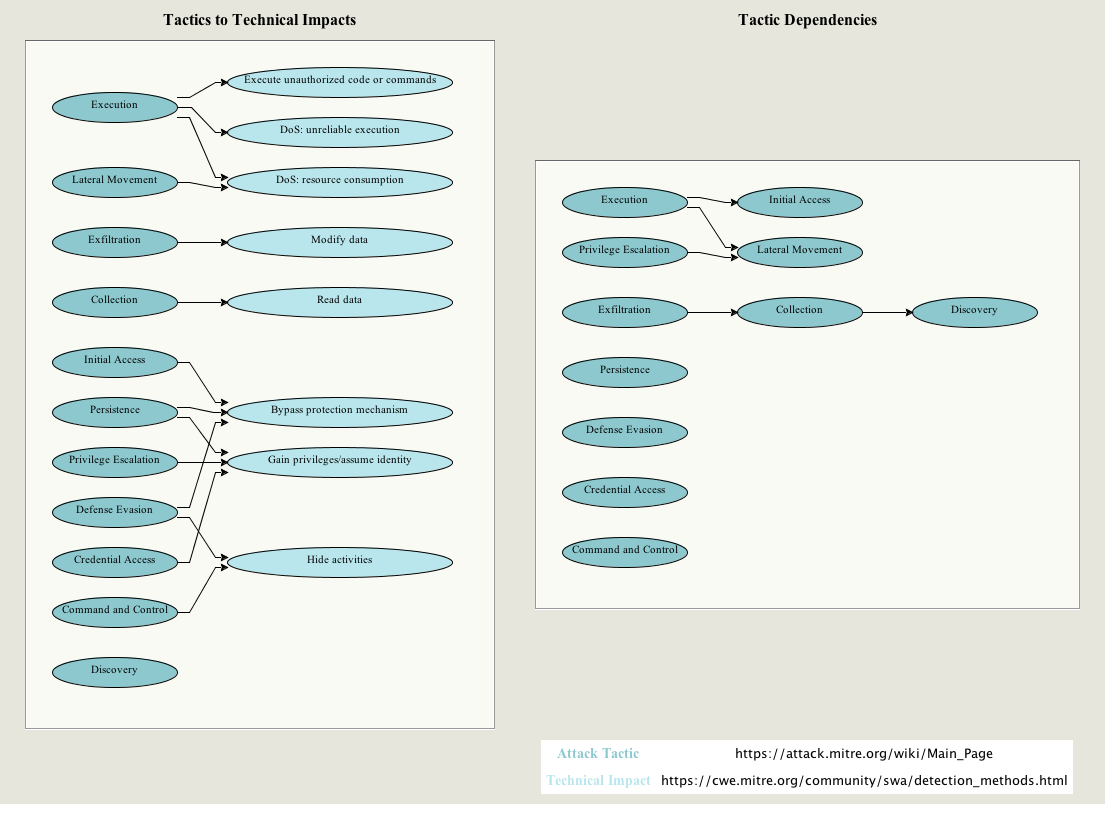
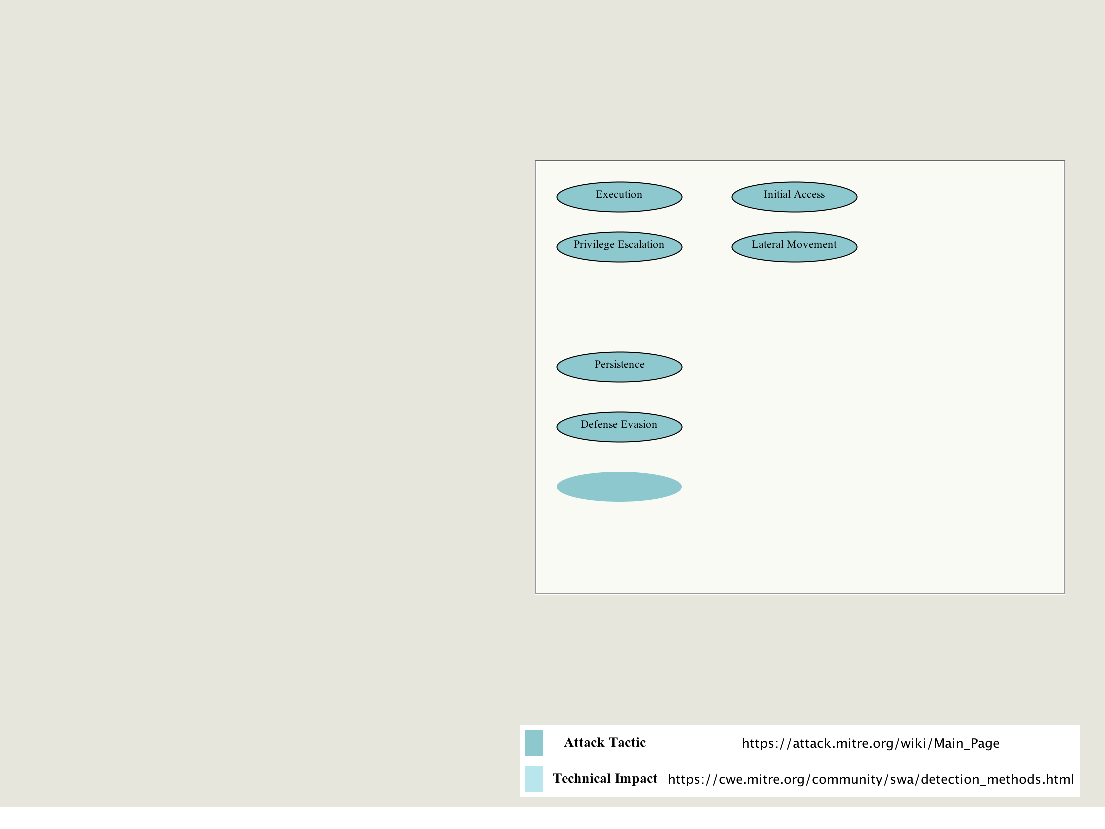
Making color code look prettier

diff --git a/src/main/java/GraphVisualizer.java b/src/main/java/GraphVisualizer.java
@@ -90,15 +90,24 @@ class GraphVisualizer extends JApplet {
         cc.gridx = 0;
         cc.gridy = 0;
         cc.insets = new Insets(5, 5, 5, 5);
+        JPanel atPanel = new JPanel();
+        atPanel.setBackground(darkpowder);
+        atPanel.add(new JLabel("\t\t"));
+        colorCode.add(atPanel, cc);
+        cc.gridy++;
+        JPanel tiPanel = new JPanel();
+        tiPanel.setBackground(powderblue);
+        tiPanel.add(new JLabel("\t\t"));
+        colorCode.add(tiPanel, cc);
+        cc.gridx++;
+        cc.gridy--;
         JLabel atLabel = new JLabel("Attack Tactic");
         Font atFont = new Font("Times New Roman", Font.BOLD, 14);
         atLabel.setFont(atFont);
-        atLabel.setForeground(darkpowder);
         colorCode.add(atLabel, cc);
         cc.gridy++;
         JLabel tiLabel = new JLabel("Technical Impact");
         tiLabel.setFont(new Font("Times New Roman", Font.BOLD, 14));
-        tiLabel.setForeground(powderblue);
         colorCode.add(tiLabel, cc);
         cc.gridx++;
         colorCode.add(new JLabel("https://cwe.mitre.org/community/swa/detection_methods.html"), cc);
@@ -184,9 +193,9 @@ class GraphVisualizer extends JApplet {
         });
 
         //Center the graph within a larger border
-        graph.setBorder(40);
+        graph.setBorder(30);
         mxGraphView view = graph.getView();
-        view.setTranslate(new mxPoint(25, 25));
+        view.setTranslate(new mxPoint(20, 20));
 
         //Format the layout of each graph to be hierarchical with a west orientation
         mxHierarchicalLayout layout = new mxHierarchicalLayout(graph);
